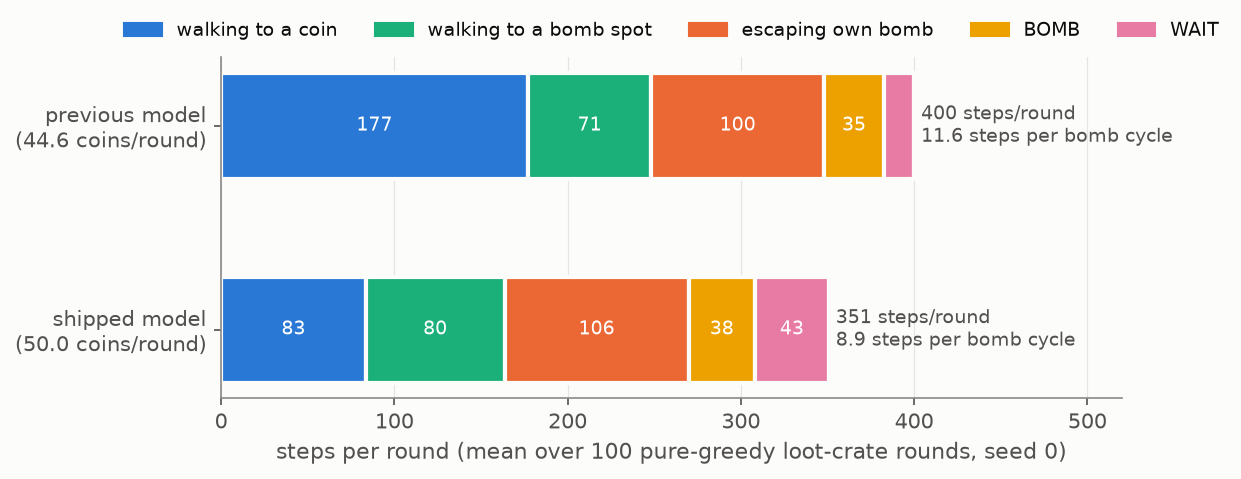
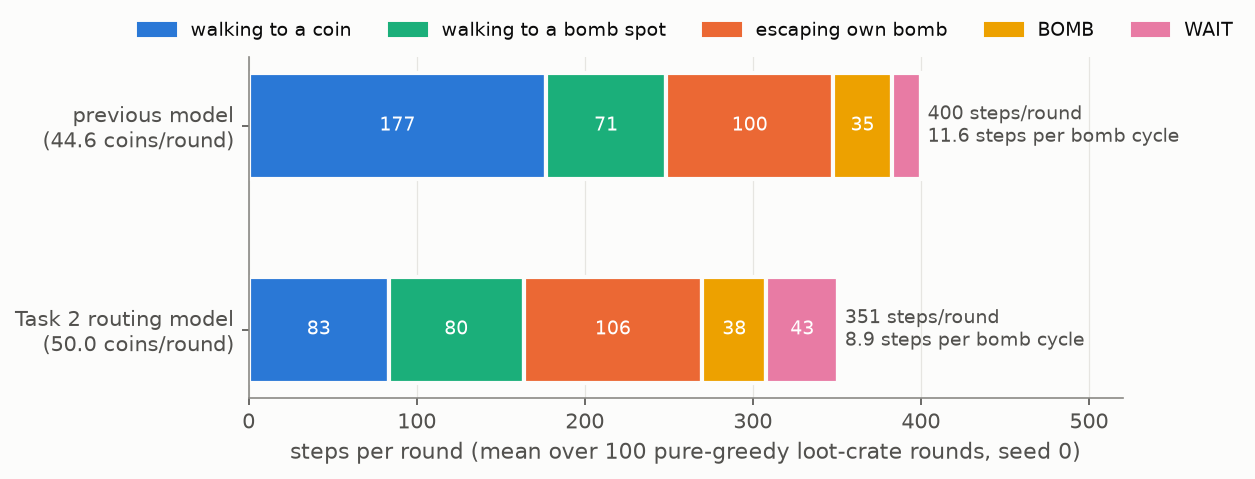
tree_agent figures: track all report figures, relabel the Task 2 routing figures, add the shipped-model matchup figure
The twelve figures the report already embedded (Task 1 sweep, Task 2
EXTRA_CRATE_BONUS ablation, Task 3/4 investigations of the previous model)
were rendered by scripts in the repository but never force-added.

plot_routing.py: the step-budget and evaluation-distribution figures show
the dedicated Task 2 routing model, not the shipped Task 4 model; labels
and input file names now say so (routing_trace_task2_model.json,
routing_task2_model_eval200.json).

plot_shipped_model.py (new): shipped_model_matchups.png -- score, kill rate
and suicide rate of the shipped model against the previous Task 4 model on
1v1, FFA, peaceful_agent and coin_collector_agent, from the archived
200-round evaluations.

diff --git a/metrics/tree_agent/task4/plot_shipped_model.py b/metrics/tree_agent/task4/plot_shipped_model.py
@@ -1,0 +1,90 @@
+"""
+plot_shipped_model.py -- the shipped tree_agent model across every matchup
+===========================================================================
+Run from the repo root:
+
+    uv run python metrics/tree_agent/task4/plot_shipped_model.py
+
+Reads the archived 200-round pure-greedy evaluations under results/tree_agent/task4/
+(nothing is re-run) and renders shipped_model_matchups.png: score per round, kill
+rate and own-bomb suicide rate of the shipped model (5,000 rounds vs rule_based_agent,
+the routing revision + Task 4 escape fixes) against the previous Task 4 model, on
+1v1 vs rule_based_agent, the 4-player free-for-all, and the two Task 3 opponents.
+"""
+
+import json
+from pathlib import Path
+
+import matplotlib.pyplot as plt
+import numpy as np
+
+RESULTS = Path("results/tree_agent/task4")
+BLUE, ORANGE, AQUA = "#2a78d6", "#eb6834", "#1baf7a"
+INK, INK_2, MUTED, GRID, SURFACE = "#0b0b0b", "#52514e", "#8a8985", "#e6e5e1", "#fcfcfb"
+plt.rcParams.update({
+    "font.family": "sans-serif", "font.size": 10, "axes.titlesize": 11, "axes.labelsize": 10,
+    "legend.fontsize": 9, "figure.dpi": 150, "axes.spines.top": False, "axes.spines.right": False,
+    "axes.edgecolor": MUTED, "axes.labelcolor": INK_2, "xtick.color": INK_2, "ytick.color": INK_2,
+    "text.color": INK, "figure.facecolor": SURFACE, "axes.facecolor": SURFACE, "axes.grid": True,
+    "grid.color": GRID, "grid.linewidth": 0.6, "axes.axisbelow": True,
+})
+
+MATCHUPS = [
+    # label, previous-model file, shipped-model file
+    ("1v1\nrule_based", "task4_rulebased_eval.json", "task4_v2_Frule_eval.json"),
+    ("FFA vs 3x\nrule_based", "task4_ffa.json", "task4_v2_Frule_ffa.json"),
+    ("vs\npeaceful", "task4_regression_peaceful.json", "task4_v2_Frule_vs_peace.json"),
+    ("vs\ncoin_collector", "task4_regression_collector.json", "task4_v2_Frule_vs_coll.json"),
+]
+
+
+def stats(path):
+    d = json.load(open(RESULTS / path))
+    me_key = next(k for k in d["by_agent"] if k.startswith("tree"))
+    me = d["by_agent"][me_key]; n = me["rounds"]
+    opp = [a for k, a in d["by_agent"].items() if k != me_key]
+    return {
+        "score": me.get("score", 0) / n,
+        "opp_score": sum(a.get("score", 0) for a in opp) / len(opp) / n,
+        "kills": me.get("kills", 0) / n,
+        "suicides": me.get("suicides", 0) / n,
+    }
+
+
+prev = [stats(p) for _, p, _ in MATCHUPS]
+ship = [stats(s) for _, _, s in MATCHUPS]
+labels = [m[0] for m in MATCHUPS]
+x = np.arange(len(MATCHUPS)); w = 0.36
+
+fig, axes = plt.subplots(1, 3, figsize=(12.5, 4.4), gridspec_kw={"width_ratios": [1.5, 1, 1]})
+
+ax = axes[0]
+ax.bar(x - w / 2, [p["score"] for p in prev], w, color=ORANGE, edgecolor=SURFACE, linewidth=2, label="previous Task 4 model")
+ax.bar(x + w / 2, [s["score"] for s in ship], w, color=BLUE, edgecolor=SURFACE, linewidth=2, label="shipped model")
+ax.scatter(x - w / 2, [p["opp_score"] for p in prev], marker="_", s=260, color=INK, linewidths=1.8, zorder=5, label="opponent's score (avg)")
+ax.scatter(x + w / 2, [s["opp_score"] for s in ship], marker="_", s=260, color=INK, linewidths=1.8, zorder=5)
+for i in range(len(MATCHUPS)):
+    ax.text(x[i] - w / 2, prev[i]["score"] + 0.2, f"{prev[i]['score']:.1f}", ha="center", va="bottom", fontsize=8.5)
+    ax.text(x[i] + w / 2, ship[i]["score"] + 0.2, f"{ship[i]['score']:.1f}", ha="center", va="bottom", fontsize=8.5)
+ax.set_xticks(x); ax.set_xticklabels(labels, fontsize=9)
+ax.set_ylabel("score per round (coins + 5 per kill)")
+ax.set_title("Score, 200 pure-greedy rounds per matchup", loc="left")
+ax.set_ylim(0, 16); ax.legend(frameon=False, loc="upper left"); ax.grid(axis="x", visible=False)
+
+for ax, key, title in ((axes[1], "kills", "Kill rate"), (axes[2], "suicides", "Own-bomb suicide rate")):
+    ax.bar(x - w / 2, [p[key] for p in prev], w, color=ORANGE, edgecolor=SURFACE, linewidth=2)
+    ax.bar(x + w / 2, [s[key] for s in ship], w, color=BLUE, edgecolor=SURFACE, linewidth=2)
+    for i in range(len(MATCHUPS)):
+        ax.text(x[i] - w / 2, prev[i][key] + 0.01, f"{prev[i][key]:.0%}", ha="center", va="bottom", fontsize=8)
+        ax.text(x[i] + w / 2, ship[i][key] + 0.01, f"{ship[i][key]:.0%}", ha="center", va="bottom", fontsize=8)
+    ax.set_xticks(x); ax.set_xticklabels(labels, fontsize=8.5)
+    ax.set_ylim(0, 1.08 if key == "kills" else 0.28)
+    ax.yaxis.set_major_formatter(plt.FuncFormatter(lambda v, _: f"{v:.0%}"))
+    ax.set_title(title, loc="left"); ax.grid(axis="x", visible=False)
+
+fig.tight_layout()
+out = RESULTS / "shipped_model_matchups.png"
+fig.savefig(out, bbox_inches="tight")
+print("wrote", out)
+for label, p, s in zip(labels, prev, ship):
+    print(f"{label.replace(chr(10), ' '):28} previous {p['score']:5.2f} vs {p['opp_score']:5.2f} (kills {p['kills']:5.1%}, suicides {p['suicides']:5.1%}) | shipped {s['score']:5.2f} vs {s['opp_score']:5.2f} (kills {s['kills']:5.1%}, suicides {s['suicides']:5.1%})")

diff --git a/metrics/tree_agent/task2/plot_routing.py b/metrics/tree_agent/task2/plot_routing.py
@@ -8,20 +8,20 @@ Run from the repo root:
 Reads only already-saved data under results/tree_agent/task2/ (nothing is
 retrained or re-traced here):
 
-  routing_trace_previous_model.json / routing_trace_shipped_model.json
+  routing_trace_previous_model.json / routing_trace_task2_model.json
       -- trace_step_budget.py --json output, 100 greedy rounds each
   routing_screen_<variant>_train.json / _eval.json
       -- --save-stats of the 1,500-round screening trainings and their
          50-round pure-greedy evaluations (A control, B, C, D/D2/D3, E, G)
-  routing_final_eval200.json          -- shipped model, 200 greedy rounds
+  routing_final_eval200.json          -- Task 2 routing model, 200 greedy rounds
   task2_final_eval_v8_ablation_zero.json -- previous model, 200 greedy rounds
 
 and renders four figures next to them:
 
-  routing_step_budget.png       where the 400 steps of a round go, previous vs shipped
+  routing_step_budget.png       where the 400 steps of a round go, previous vs Task 2 routing model
   routing_screening_bar.png     coins/round + full clears per screening variant
   routing_learning_curves.png   training-time coins/round per variant (rolling mean)
-  routing_eval_distribution.png per-round coins and round length, previous vs shipped
+  routing_eval_distribution.png per-round coins and round length, previous vs Task 2 routing model
 """
 
 import json
@@ -78,7 +78,7 @@ def eval_rounds(name, agent_key=None):
 # 1. step budget: previous vs shipped
 # ---------------------------------------------------------------------------
 prev = load("routing_trace_previous_model.json")
-ship = load("routing_trace_shipped_model.json")
+ship = load("routing_trace_task2_model.json")
 classes = [
     ("coin_chase", "walking to a coin", BLUE),
     ("crate_walk", "walking to a bomb spot", AQUA),
@@ -88,7 +88,7 @@ classes = [
 ]
 
 fig, ax = plt.subplots(figsize=(8.2, 3.3))
-rows = [("previous model\n(44.6 coins/round)", prev), ("shipped model\n(50.0 coins/round)", ship)]
+rows = [(f"previous model\n({prev['coins_per_round']:.1f} coins/round)", prev), (f"Task 2 routing model\n({ship['coins_per_round']:.1f} coins/round)", ship)]
 for y, (label, trace) in enumerate(rows):
     left = 0.0
     budget = trace["steps_per_round_by_class"]
@@ -195,14 +195,14 @@ ship_agent, ship_rounds = eval_rounds("routing_final_eval200.json")
 fig, (ax1, ax2) = plt.subplots(1, 2, figsize=(8.6, 3.4))
 bins = np.arange(29.5, 51.5, 1.0)
 ax1.hist([r["coins"] for r in prev_rounds], bins=bins, color=ORANGE, alpha=0.85, label="previous model", edgecolor=SURFACE, linewidth=1)
-ax1.hist([r["coins"] for r in ship_rounds], bins=bins, color=BLUE, alpha=0.85, label="shipped model", edgecolor=SURFACE, linewidth=1)
+ax1.hist([r["coins"] for r in ship_rounds], bins=bins, color=BLUE, alpha=0.85, label="Task 2 routing model", edgecolor=SURFACE, linewidth=1)
 ax1.set_xlabel("coins collected in the round")
 ax1.set_ylabel("rounds (of 200)")
 ax1.set_title("Coins per round", loc="left")
 ax1.legend(loc="upper left", frameon=False)
 sbins = np.arange(290, 411, 10)
 ax2.hist([r["steps"] for r in prev_rounds], bins=sbins, color=ORANGE, alpha=0.85, label="previous model", edgecolor=SURFACE, linewidth=1)
-ax2.hist([r["steps"] for r in ship_rounds], bins=sbins, color=BLUE, alpha=0.85, label="shipped model", edgecolor=SURFACE, linewidth=1)
+ax2.hist([r["steps"] for r in ship_rounds], bins=sbins, color=BLUE, alpha=0.85, label="Task 2 routing model", edgecolor=SURFACE, linewidth=1)
 ax2.set_xlabel("round length in steps (a round ends when the board is clear)")
 ax2.set_title("Round length", loc="left")
 ax2.legend(loc="upper left", frameon=False)

diff --git a/README.md b/README.md
@@ -307,6 +307,8 @@ uv run main.py play --agents tree_agent rule_based_agent rule_based_agent rule_b
 | 1v1 vs `rule_based_agent` | 1251 / 810 | 27 (13.5%) | 20 (10.0%) |
 | 4-player FFA vs 3x `rule_based_agent` | 1073 vs ~570 avg | 79 (39.5%) | 18 (9.0%); the three `rule_based_agent` copies: ~43% |
 
+![shipped model vs previous Task 4 model on every matchup](results/tree_agent/task4/shipped_model_matchups.png)
+
 On fixed boards (`--seed 2`, 200 rounds): 1v1 1267 / 818, FFA 1142 vs 556. Own-bomb deaths
 against `rule_based_agent` are classified by `metrics/tree_agent/task4/death_trace.py`; the
 remaining ones are mostly an opponent bomb cutting an escape route that existed at drop time.
@@ -476,7 +478,8 @@ uv run python metrics/tree_agent/task4/death_trace.py --opponent rule_based_agen
 uv run python metrics/tree_agent/task4/plot_training_trends.py --run "run=agent_code/tree_agent"   # training-time score / suicide / round-length trends from the agent's own logs (epsilon-greedy!)
 uv run python metrics/tree_agent/task4/select_checkpoint.py --run "run=agent_code/tree_agent" --opponent rule_based_agent   # pure-greedy evaluation of every checkpoint, two stages -> greedy_vs_training_round.png
 uv run python metrics/tree_agent/task4/regressor_comparison.py --replay results/tree_agent/task4/replay_shipped_model_250rounds.pkl   # ExtraTrees vs gradient boosting on identical FQI data -> regressor_comparison.png
-uv run metrics/tree_agent/task4/plot_task4.py   # adjacent_opponent_veto_fix.png, ffa_comparison.png, regression_check.png
+uv run python metrics/tree_agent/task4/plot_shipped_model.py   # shipped_model_matchups.png: the shipped model vs the previous Task 4 model on every matchup
+uv run metrics/tree_agent/task4/plot_task4.py   # adjacent_opponent_veto_fix.png, ffa_comparison.png, regression_check.png (previous model)
 ```
 
 **The `REFIT_INTERVAL` re-sweep** on `loot-crate` (a negative result: 10 looked better at training
